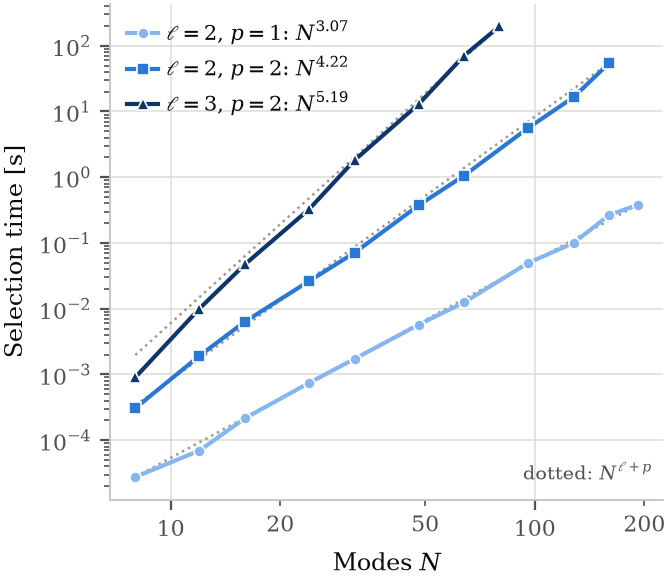
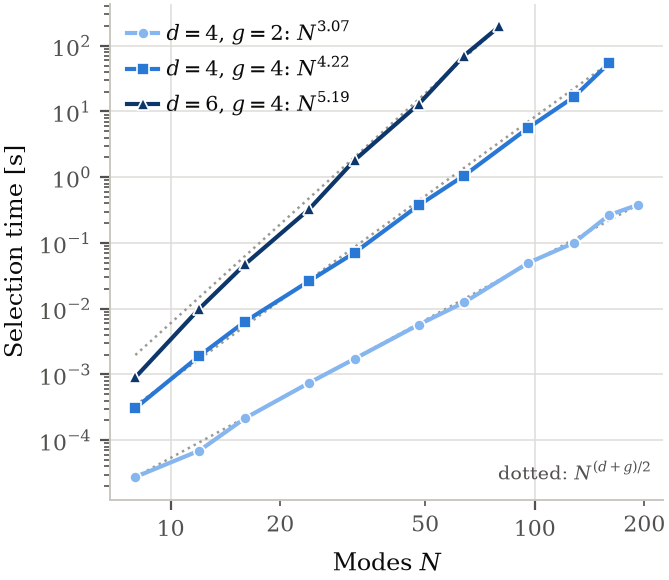
fix(paper_plots): 🏷 label the selection legend in the paper's (d, g)
The legend and the dotted-bound note printed the records' half-degree ell and p, which the paper
never defines, so its caption had to carry a figure-local translation. Print the cutoff d = 2 ell
and generator degree g = 2 p instead, and the bound as N^((d+g)/2), matching the theorem.

Assisted-by: Claude Code:claude-opus-5-5

diff --git a/paper_plots/selection/make_selection_figure.py b/paper_plots/selection/make_selection_figure.py
@@ -176,7 +176,9 @@ def draw(groups, outdir=FIGS):
             zorder=3,
             markeredgecolor="white",
             markeredgewidth=0.6,
-            label=rf"$\ell={ell}$, $p={p}$: {exp}",
+            # The paper states the case as (cutoff d, generator degree g) = (2 ell, 2 p), so the
+            # legend does too; the records' half-degree `ell`/`p` never reach the page.
+            label=rf"$d={2 * ell}$, $g={2 * p}$: {exp}",
         )
         guide(ax, rs, ell + p)
         rows.append(
@@ -203,7 +205,7 @@ def draw(groups, outdir=FIGS):
     ax.text(
         0.98,
         0.03,
-        r"dotted: $N^{\ell+p}$",
+        r"dotted: $N^{(d+g)/2}$",
         transform=ax.transAxes,
         ha="right",
         va="bottom",
@@ -253,7 +255,7 @@ def wrap(text, width=88):
 
 def caption(rows):
     cases = "; ".join(
-        rf"$\ell={r['ell']}$, $p={r['p']}$: $N^{{{r['slope_time']:.2f}}}$ against the "
+        rf"$d={2 * r['ell']}$, $g={2 * r['p']}$: $N^{{{r['slope_time']:.2f}}}$ against the "
         rf"$N^{{{r['bound']}}}$ bound, over $N={r['fit_window'][0]}$--{r['fit_window'][-1]}"
         for r in rows
         if r["slope_time"]
@@ -266,7 +268,7 @@ def caption(rows):
         r"basis, single partition, single thread. Building and evolving the observable happen "
         r"before the clock starts. Fitted log-log slopes over the "
         rf"{FIT_POINTS} widest rungs of each case: {cases}. Each dotted "
-        r"line is the corresponding $N^{\ell+p}$ pair-count bound, anchored on the widest "
+        r"line is the corresponding $N^{(d+g)/2}$ pair-count bound, anchored on the widest "
         r"measured rung. The measured time exponents track the fitted pair-count exponents "
         + ", ".join(f"({r['slope_pairs']:.2f})" for r in rows if r["slope_pairs"])
         + r" to within "
